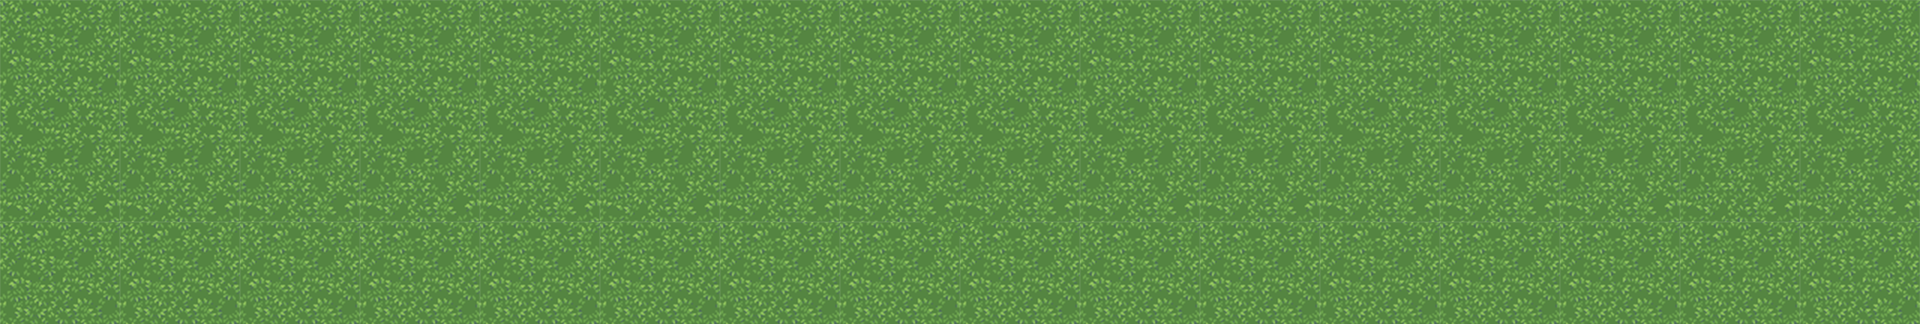
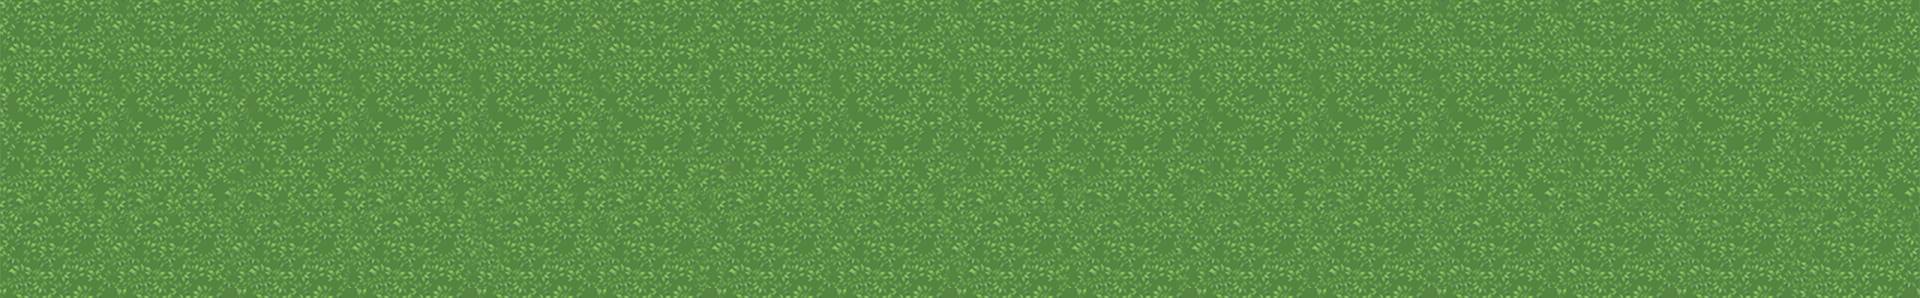
문병무: 잔디 교정

Changed region(s): [[0.0, 0.5436, 1.0, 1.0], [0.0, 0.0, 1.0, 0.5134]]

diff --git a/EngineCore/Level.h b/EngineCore/Level.h
@@ -1,7 +1,6 @@
 #pragma once
 #include "GameMode.h"
 
-
 class CollisionLinkData
 {
 public:
@@ -23,17 +22,18 @@ public:
 	friend class U2DCollision;
 	friend class USpriteRenderer;
 	friend class UEngineAPICore;
-		ULevel();
+
+	ULevel();
 	~ULevel();
 
-		ULevel(const ULevel& _Other) = delete;
+	ULevel(const ULevel& _Other) = delete;
 	ULevel(ULevel&& _Other) noexcept = delete;
 	ULevel& operator=(ULevel&& _Other) noexcept = delete;
 
 	ULevel& operator=(const ULevel& _Other) = delete;
-		void LevelChangeStart();
+	void LevelChangeStart();
 
-		void LevelChangeEnd();
+	void LevelChangeEnd();
 
 	void Tick(float _DeltaTime);
 	void Render(float _DeltaTime);
@@ -46,10 +46,10 @@ public:
 		ActorType* NewActor = new ActorType();
 
 		AActor* ActorPtr = dynamic_cast<AActor*>(NewActor);
-				ActorPtr->World = this;
+		ActorPtr->World = this;
 
 		BeginPlayList.push_back(ActorPtr);
-						return NewActor;
+		return NewActor;
 	}
 
 	void SetCameraToMainPawn(bool _IsCameraToMainPawn)
@@ -119,7 +119,7 @@ public:
 
 		for (size_t i = 0; i < CollisionLink.size(); i++)
 		{
-						if (CollisionLink[i].Key == _Right)
+			if (CollisionLink[i].Key == _Right)
 			{
 				return;
 			}
@@ -136,15 +136,14 @@ private:
 	void DoubleBuffering();
 	void BeginPlayCheck();
 
-
-		template<typename GameModeType, typename MainPawnType>
+	template<typename GameModeType, typename MainPawnType>
 	void CreateGameMode()
 	{
 		GameMode = new GameModeType();
 
-				MainPawn = new MainPawnType();
+		MainPawn = new MainPawnType();
 
-				MainPawn->World = this;
+		MainPawn->World = this;
 		GameMode->World = this;
 
 		BeginPlayList.push_back(GameMode);
@@ -156,7 +155,7 @@ private:
 		//AllActors.push_back(MainPawn);
 	}
 
-		void PushRenderer(class USpriteRenderer* _Renderer);
+	void PushRenderer(class USpriteRenderer* _Renderer);
 	void ChangeRenderOrder(class USpriteRenderer* _Renderer, int _PrevOrder);
 
 	void PushCollision(class U2DCollision* _Collision);
@@ -166,24 +165,24 @@ private:
 	void CollisionEventCheck(class U2DCollision* _Left, class U2DCollision* _Right);
 
 
-								class AGameMode* GameMode = nullptr;
+	class AGameMode* GameMode = nullptr;
 
-		class AActor* MainPawn = nullptr;
+	class AActor* MainPawn = nullptr;
 
 	std::list<AActor*> AllActors;
 
 	std::list<AActor*> BeginPlayList;
 
 	bool IsCameraToMainPawn = true;
-		FVector2D CameraPos;
+	FVector2D CameraPos;
 	FVector2D CameraPivot;
 
-		std::map<int, std::list<class USpriteRenderer*>> Renderers;
+	std::map<int, std::list<class USpriteRenderer*>> Renderers;
 
-		std::map<int, std::list<class U2DCollision*>> Collisions;
+	std::map<int, std::list<class U2DCollision*>> Collisions;
 
-		static std::vector<CollisionLinkData> CollisionLink;
+	static std::vector<CollisionLinkData> CollisionLink;
 	
-		std::map<int, std::list<class U2DCollision*>> CheckCollisions;
+	std::map<int, std::list<class U2DCollision*>> CheckCollisions;
 };
 

diff --git a/ContentsProject/PlayMap.cpp b/ContentsProject/PlayMap.cpp
@@ -19,12 +19,12 @@ APlayMap::APlayMap()
 
 	{
 		BackSpriteR = CreateDefaultSubObject<USpriteRenderer>();
-		BackSpriteR->SetComponentCrate(BackSpriteR, "GrassMap.png", { 1, 1 }, { ScreenHX, ScreenHY + 105 }, ERenderOrder::BACKGROUND);
+		BackSpriteR->SetComponentCrate(BackSpriteR, "GrassMap.png", { 1, 1 }, { ScreenHX, ScreenHY + 92 }, ERenderOrder::BACKGROUND);
 	}
 }
 
 APlayMap::~APlayMap()
-{
+{ 
 }
 
 void APlayMap::Tick(float _DeltaTime)

diff --git a/ContentsProject/TileMap.cpp b/ContentsProject/TileMap.cpp
@@ -150,4 +150,3 @@ void ATileMap::DeSerialize(UEngineSerializer& _Ser)
 		}
 	}
 }
-
